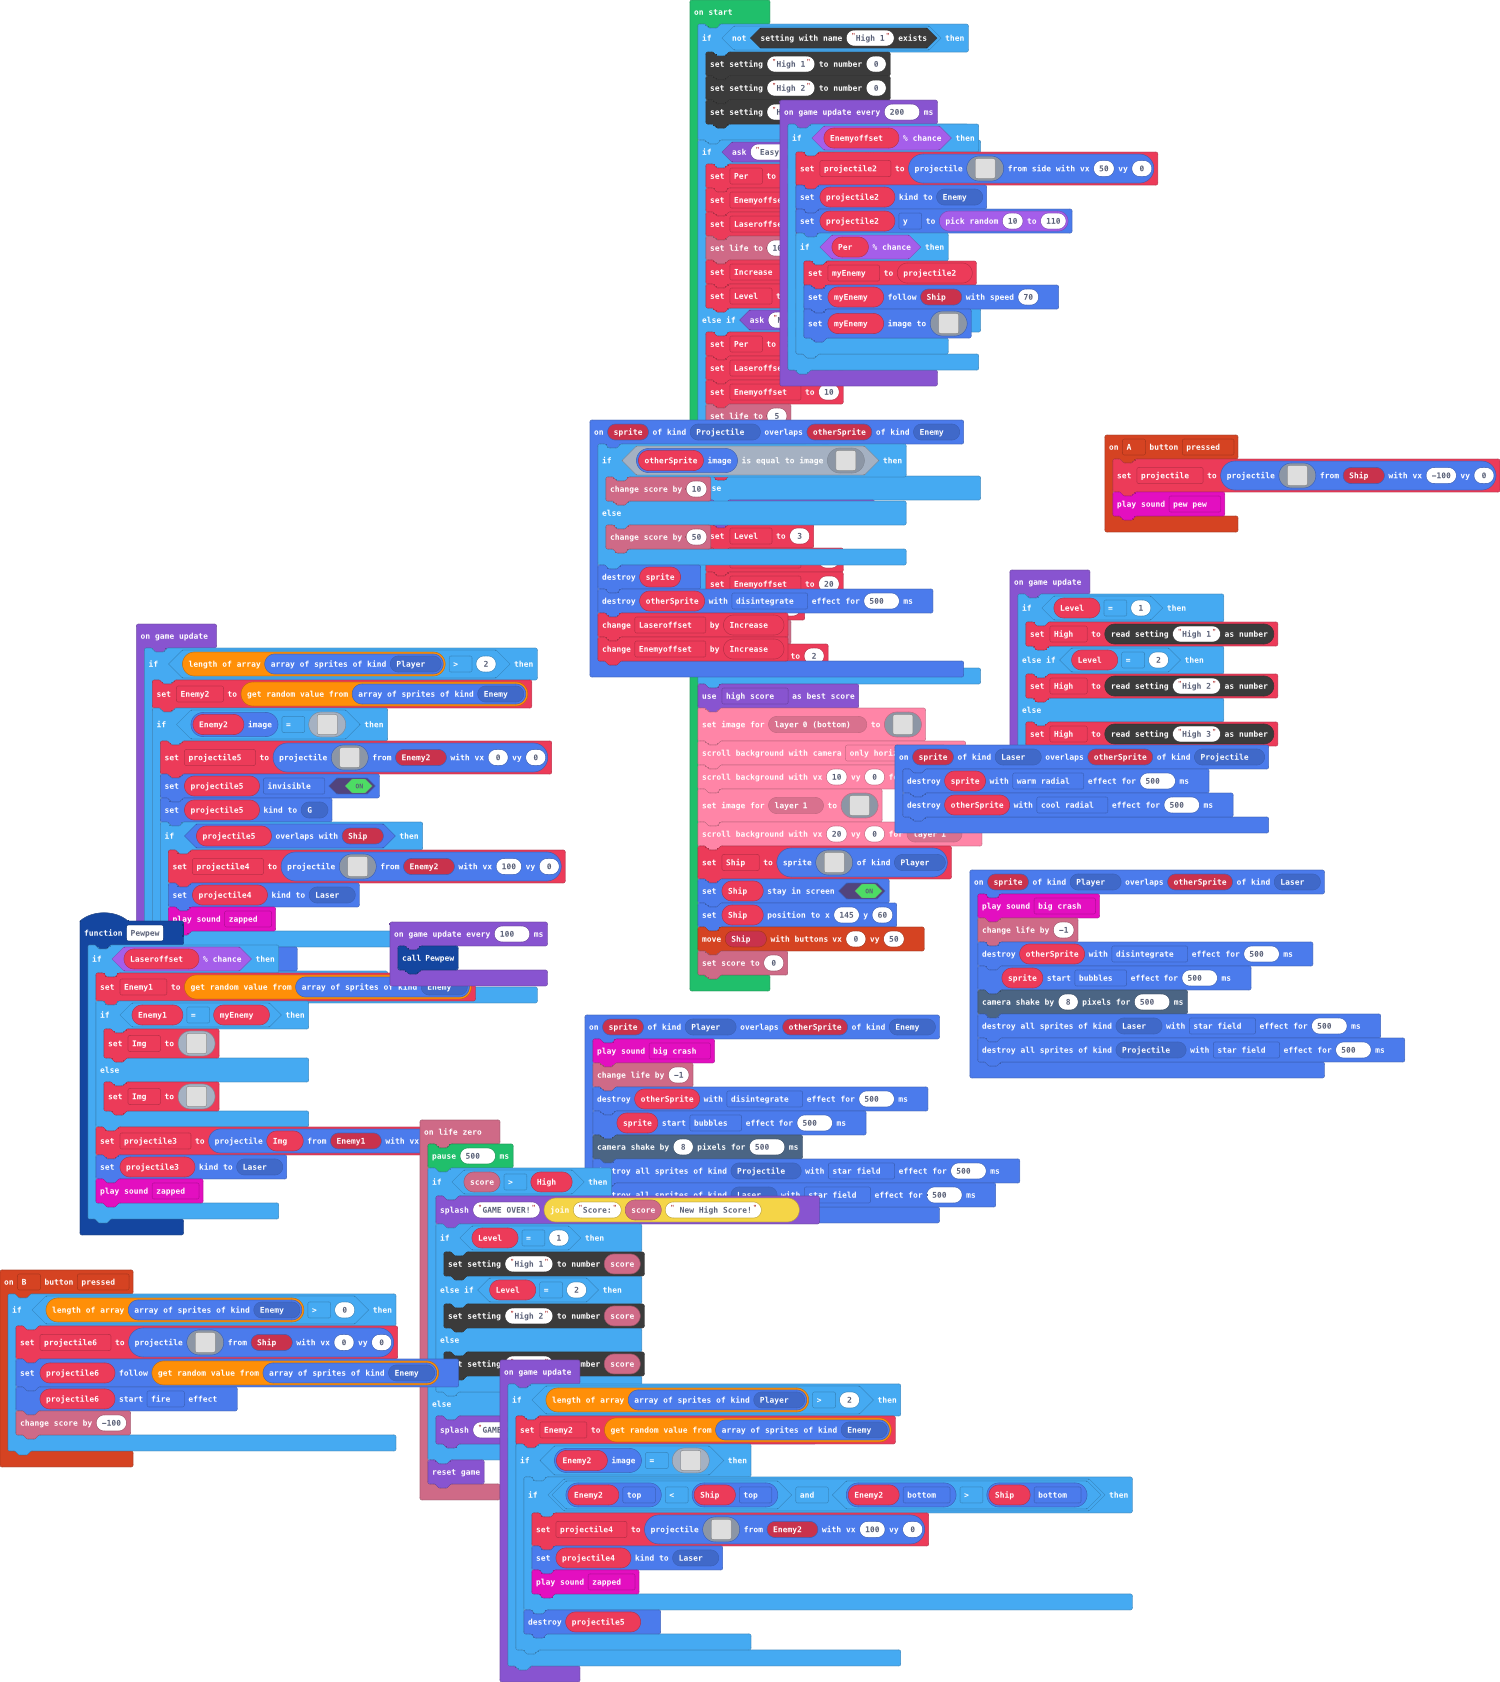
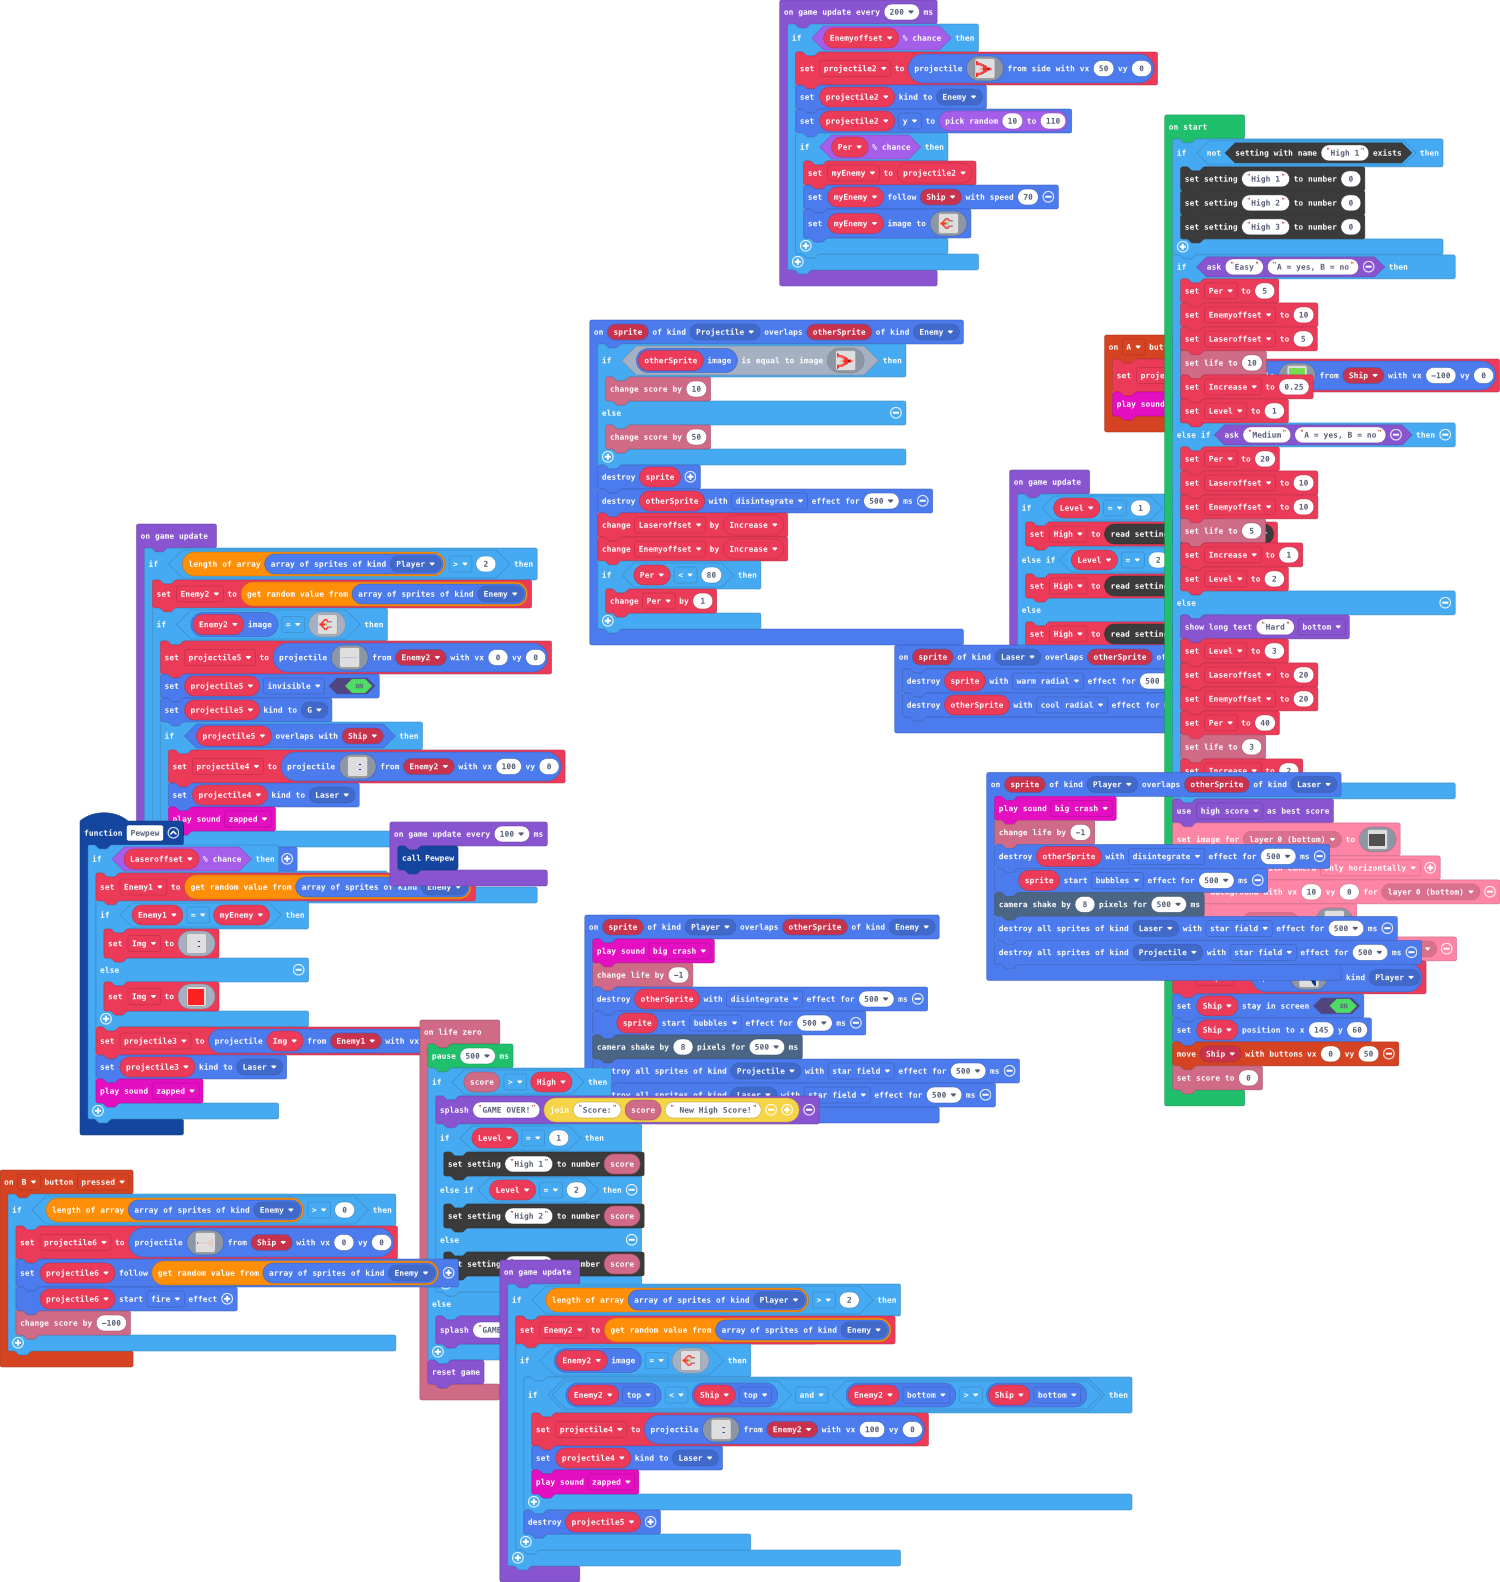
Update main.blocks, main.ts

diff --git a/main.ts b/main.ts
@@ -111,6 +111,9 @@ sprites.onOverlap(SpriteKind.Projectile, SpriteKind.Enemy, function (sprite, oth
     otherSprite.destroy(effects.disintegrate, 500)
     Laseroffset += Increase
     Enemyoffset += Increase
+    if (Per < 80) {
+        Per += 1
+    }
 })
 sprites.onOverlap(SpriteKind.Player, SpriteKind.Enemy, function (sprite, otherSprite) {
     music.bigCrash.play()
